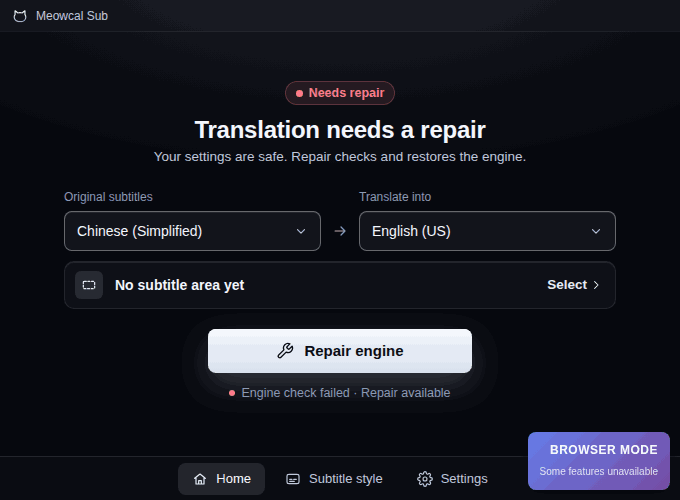
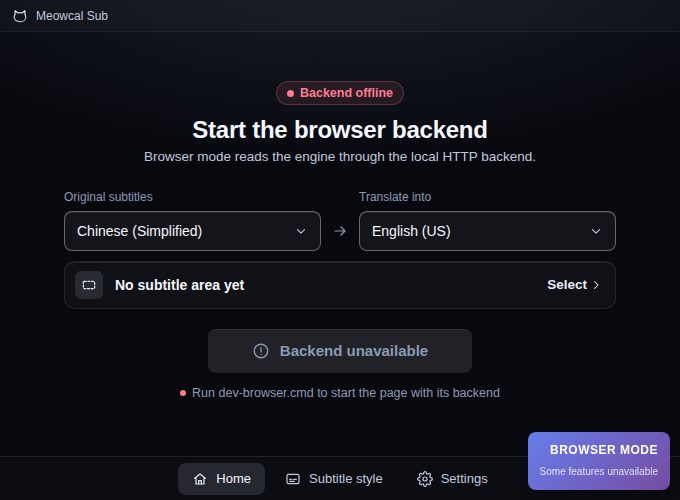
docs: record the capture-report and browser-backend audit captures
Claude-Session: https://claude.ai/code/session_01DXLJ9quvoxeku7Db9xqVfi

Changed region(s): [[0.2471, 0.66, 0.7412, 0.81], [0.2162, 0.24, 0.8029, 0.33], [0.4015, 0.15, 0.6176, 0.21]]

diff --git a/docs/audit-20260926/ui/README.md b/docs/audit-20260926/ui/README.md
@@ -38,3 +38,6 @@ browser is not installed.
 | J5 Settings | Progress message still shown 4.8 s into a 6 s test | Fail | Pass |
 | J5 Settings | Last row clear of a message at the end of the page | Fail | Pass |
 | Browser mode | No dead window controls | Fail | Pass |
+| J6 Home | Fallback capture report shown while running, at 680 and 560 | Fail | Pass |
+| J6 Home | Capture error still shown after the window regains focus | Fail | Pass |
+| Browser mode | Home and Settings say "Backend offline", not "Needs repair" | Fail | Pass |
